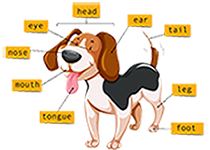
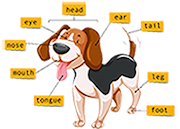
trying to get the images to fit correctly in the circles

diff --git a/css/style.css b/css/style.css
@@ -1382,13 +1382,16 @@ section.quality_ser_bg {
 }
 
 #build_dog{
-	margin-left:-35px;
+	margin-left:-5%;
+	margin-top:2.5%;
 }
 #dog-space{
-	margin-left:-35px;
+	margin-top:1%;
+	margin-left:-1%;
 }
 #good{
-	margin-top:-35px;
+	margin-top:-7%;
+	margin-left:5%;
 }
 .qulity_ser {
 	background: rgba(0, 0, 0, 0.1);
